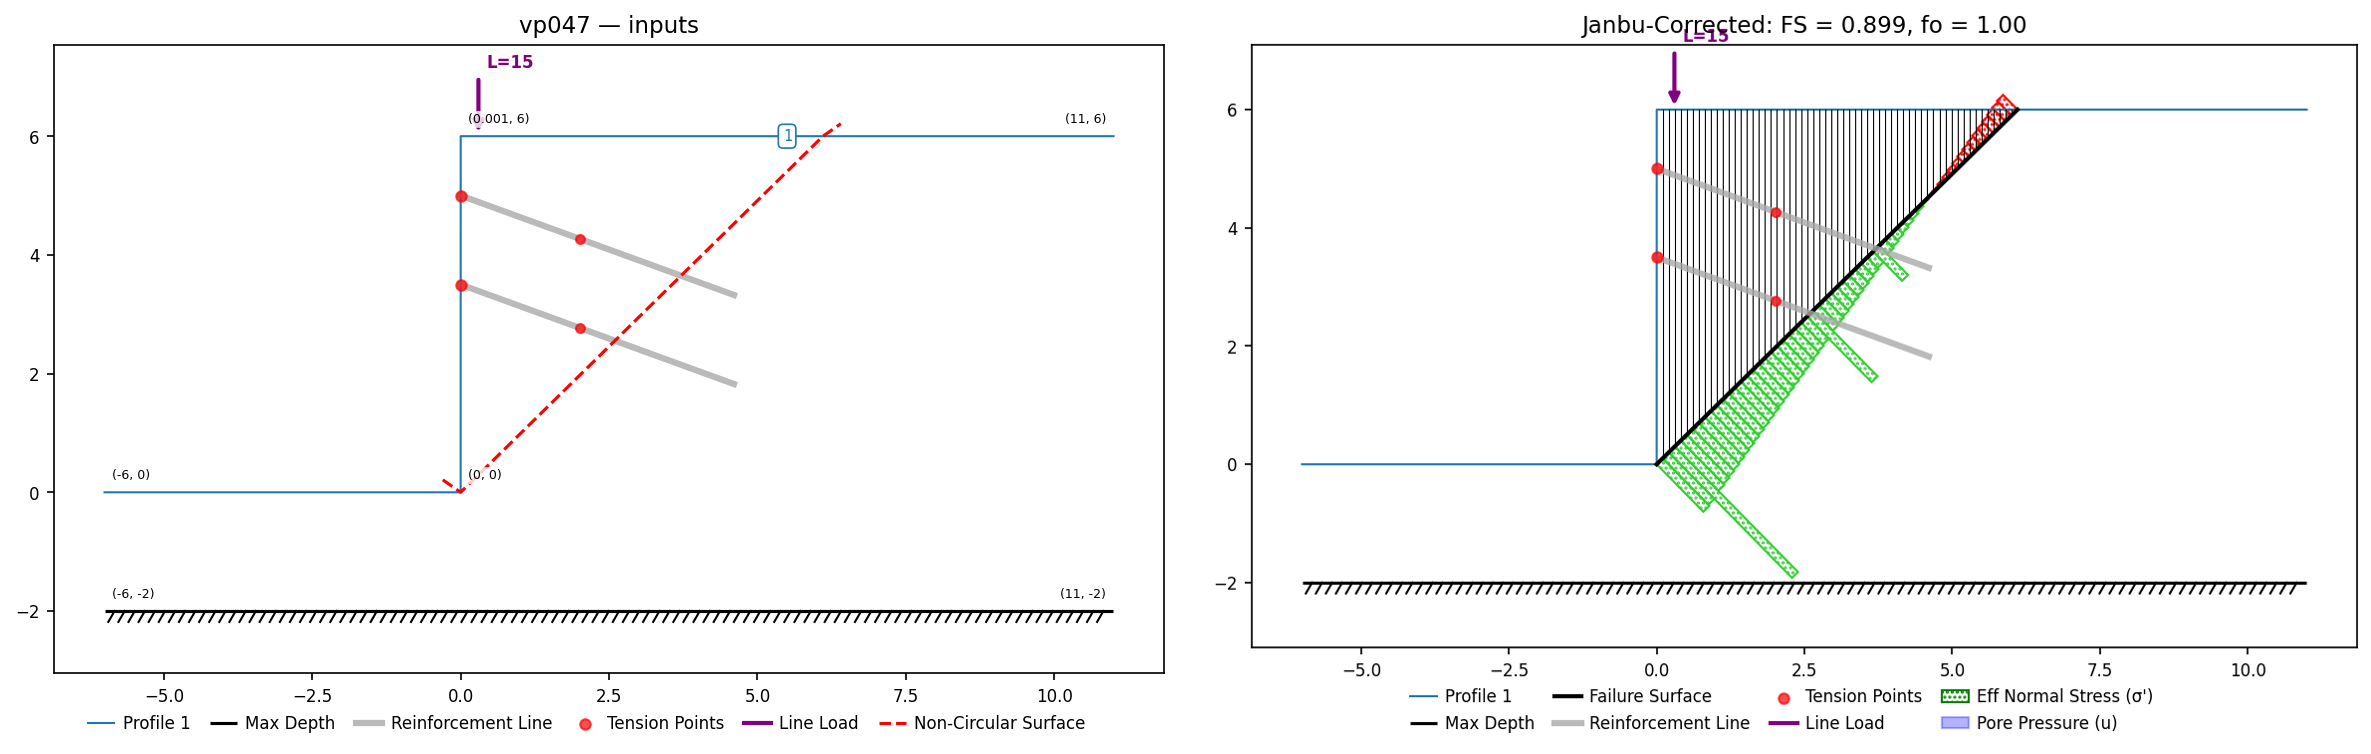
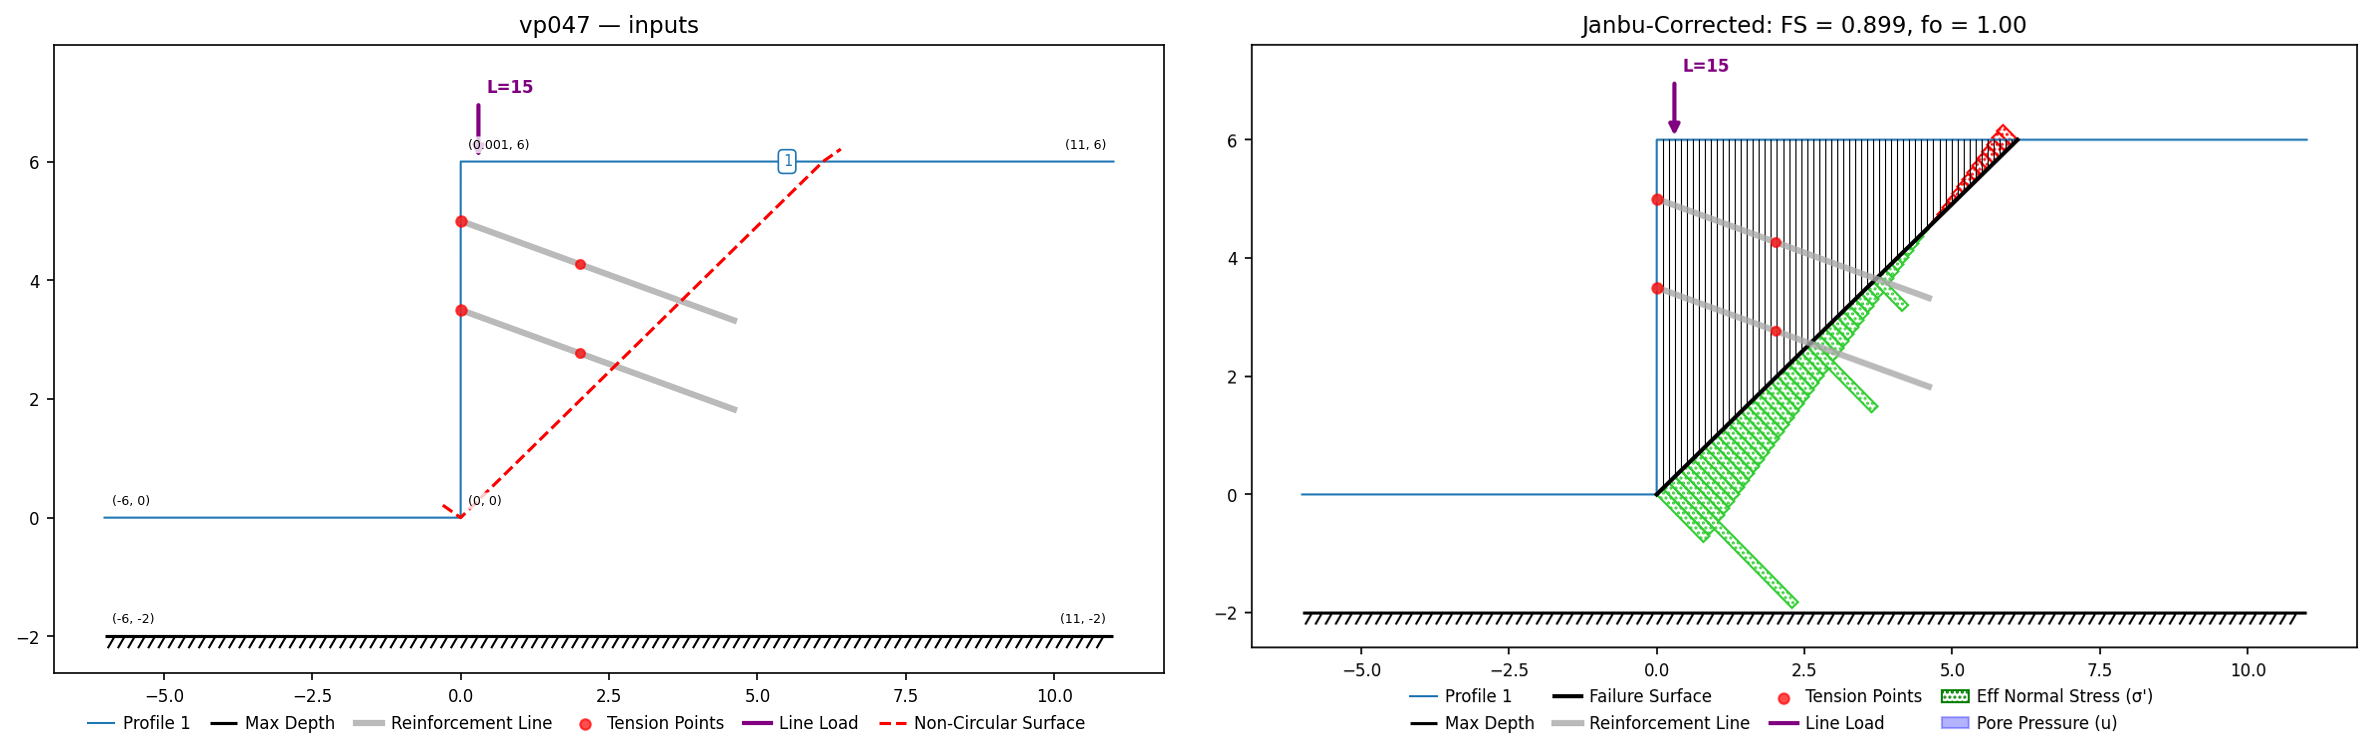
fix(plot): line-load arrow and label stay inside the axes
The arrow is an annotation, so neither plot_inputs' autoscale nor
plot_solution's compute_ylim knew its extent - a load at the crest put
the tail and the "L=" label above the frame (into the title on solution
plots). The shared tail geometry now feeds both paths: an invisible data
point in plot_line_loads (autoscale) and a compute_ylim term. Regenerated
vp047/vp048.

Claude-Session: https://claude.ai/code/session_01GyJZ1PU7NrCvqdhtDafGd1

diff --git a/xslope/plot.py b/xslope/plot.py
@@ -1636,6 +1636,10 @@ def compute_ylim(data, slice_df, scale_frac=0.5, pad_fraction=0.1):
         _, dy0, _, dy1 = domain.bounds
         y_vals.extend([dy0, dy1])
 
+    # 2c) line-load arrows extend above the ground at their application points;
+    # their tails (and the label riding on them) must stay inside the view
+    y_vals.extend(y for _, y in _line_load_tails(data))
+
     if not y_vals:
         return 0.0, 1.0
 
@@ -1708,6 +1712,30 @@ def plot_reinforcement_lines(ax, slope_data, style=None):
                 tension_points_plotted = True
 
 
+def _line_load_tails(slope_data):
+    """Arrow-tail points for the line-load glyphs: the head sits on the point
+    of application, the tail 6% of the model span opposite the force
+    direction. Both plot_line_loads (drawing) and compute_ylim (view limits)
+    use these, so the arrow and its label are always inside the axes."""
+    import numpy as np
+    loads = slope_data.get('line_loads') or []
+    if not loads:
+        return []
+    gs = slope_data.get('ground_surface')
+    if gs is not None and not gs.is_empty:
+        xs = [p[0] for p in gs.coords]
+        span = max(xs) - min(xs)
+    else:
+        span = 100.0
+    alen = 0.06 * span
+    tails = []
+    for ll in loads:
+        ang = np.radians(ll.get('angle', -90.0))
+        tails.append((ll['x'] - np.cos(ang) * alen,
+                      ll['y'] - np.sin(ang) * alen))
+    return tails
+
+
 def plot_line_loads(ax, slope_data, style=None):
     """
     Plots line loads (v12 'lloads') as arrows at their points of application on
@@ -1719,33 +1747,22 @@ def plot_line_loads(ax, slope_data, style=None):
         slope_data: Dictionary containing slope data with 'line_loads' key
         style: optional style sheet (see xslope.style); None -> defaults.
     """
-    import numpy as np
     loads = slope_data.get('line_loads') or []
     if not loads:
         return
+    tails = _line_load_tails(slope_data)
 
-    # Arrow length scaled to the model size, not the load magnitude (a single
-    # concentrated force; magnitude shown as an annotation).
-    gs = slope_data.get('ground_surface')
-    if gs is not None and not gs.is_empty:
-        xs = [p[0] for p in gs.coords]
-        span = max(xs) - min(xs)
-    else:
-        span = 100.0
-    alen = 0.06 * span
-
-    for i, ll in enumerate(loads):
-        ang = np.radians(ll.get('angle', -90.0))
-        dxa = np.cos(ang) * alen
-        dya = np.sin(ang) * alen
+    for i, (ll, (tx, ty)) in enumerate(zip(loads, tails)):
         # tail offset opposite the force direction so the head lands on the point
-        ax.annotate('', xy=(ll['x'], ll['y']),
-                    xytext=(ll['x'] - dxa, ll['y'] - dya),
+        ax.annotate('', xy=(ll['x'], ll['y']), xytext=(tx, ty),
                     arrowprops=dict(arrowstyle='-|>', color='purple', lw=2),
                     annotation_clip=False)
-        ax.annotate(f"L={ll['P']:.0f}", (ll['x'] - dxa, ll['y'] - dya),
+        ax.annotate(f"L={ll['P']:.0f}", (tx, ty),
                     textcoords="offset points", xytext=(4, 4),
                     fontsize=8, color='purple', fontweight='bold')
+        # annotations don't autoscale: an invisible data point at the tail
+        # makes the axes grow to keep the arrow (and its label) in view
+        ax.plot([tx], [ty], linestyle='None')
         if i == 0:
             ax.plot([], [], color='purple', lw=2, label='Line Load')
 
